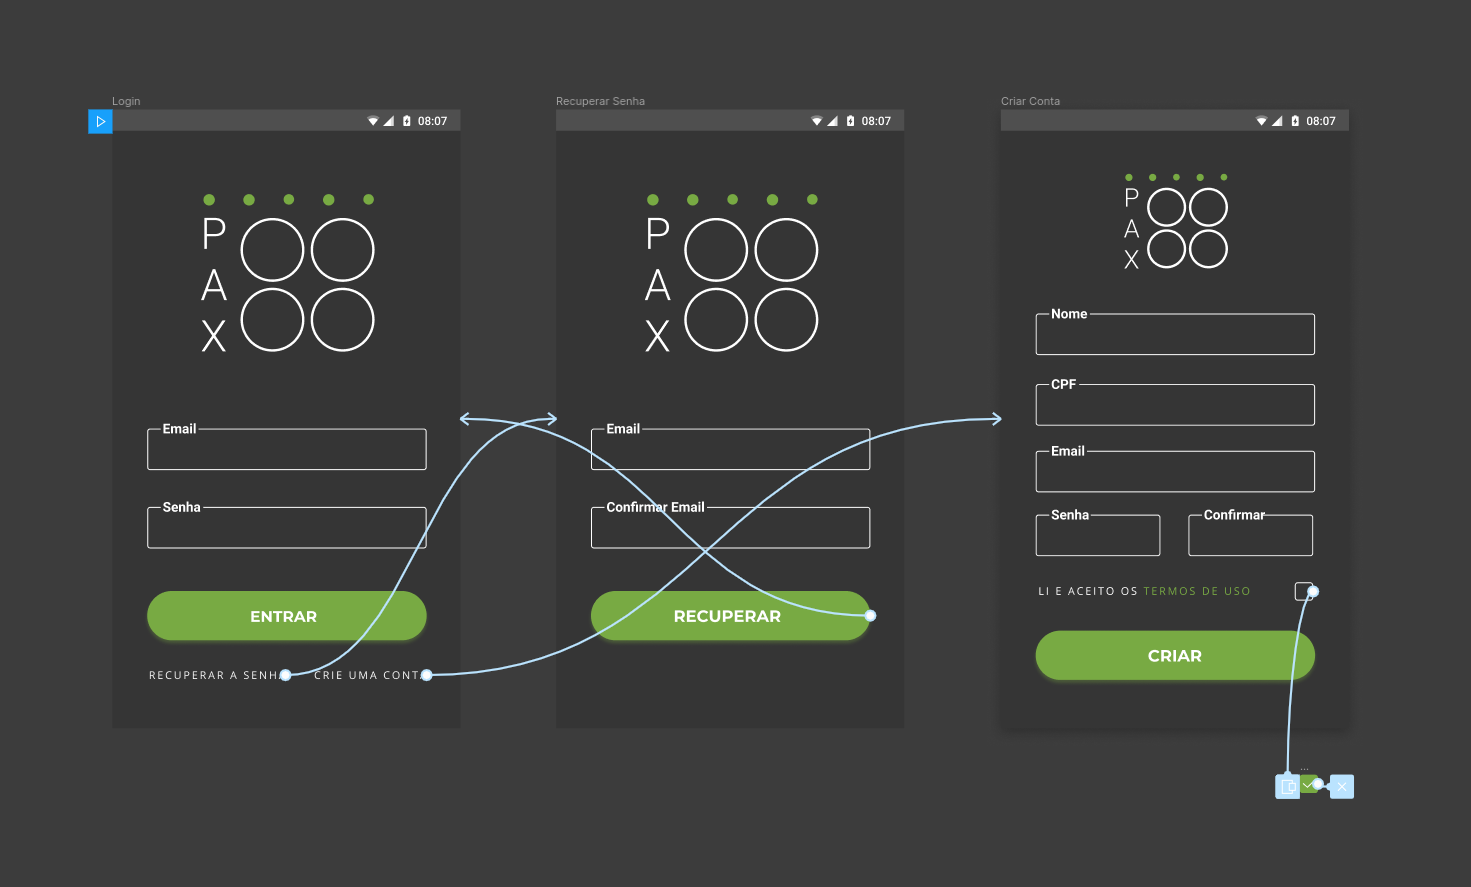
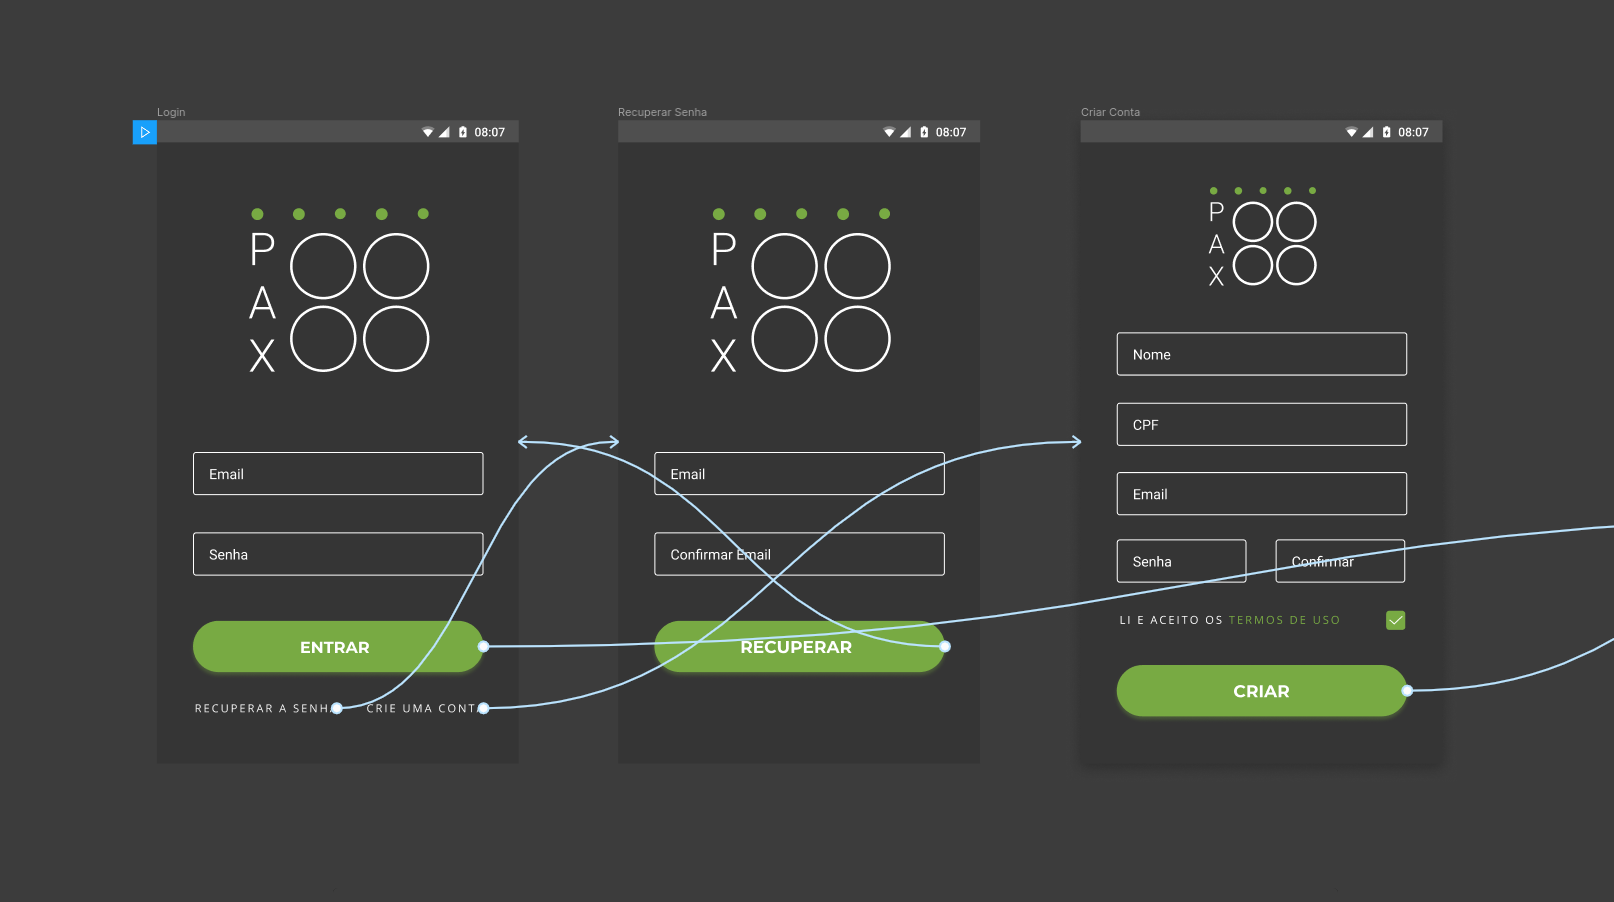
Update login flux due to new input and add flutter code to the main widgets

diff --git a/assets/css/overwrite-docsify-default/cover.css b/assets/css/overwrite-docsify-default/cover.css
@@ -29,3 +29,5 @@
   height: 16rem;
   margin-top: 4rem;
 }
+
+pre::after {display: none !important;}

diff --git a/docs/DS/dinamica-e-seminario-3/PrototipoAltaFidelidade.md b/docs/DS/dinamica-e-seminario-3/PrototipoAltaFidelidade.md
@@ -7,11 +7,35 @@ Um protótipo de alta fidelidade deve se aproximar ao máximo dos aspectos visua
 | Data            | Versão    |              Descrição            |    Autor(es) |
 | :--: | :----: | :-------: | :-------: |
 |   19/09/2019    |   0.0     |    Adição do documento inicial com a referência da introdução  |      Youssef Muhamad |
+|   20/09/2019    |   0.1     |    Adição do fluxo de login, cadastro e recuperação de senha  |      Youssef Muhamad |
 
-### Login
-![Login](../../../assets/prototipo-alto-nivel/login.png)
-### Login com Fluxo
-![Login](../../../assets/prototipo-alto-nivel/login-fluxo.png)
+### Login v1
+<img src="../../../assets/prototipo-alto-nivel/login.png">
+
+### Login com Fluxo v1
+<img src="../../../assets/prototipo-alto-nivel/login-fluxo.png">
+
+#### Código para o botão principal
+<!-- o JS é só pra deixar colorido -->
+```js 
+RaisedButton(
+  child: Text("Entrar"),
+  onPressed: () {},
+  shape: RoundedRectangleBorder(
+      borderRadius: new BorderRadius.circular(30.0),
+  ),
+)
+```
+
+#### Código para o input com borda
+```js
+TextField(
+  decoration: new InputDecoration(
+    labelText: 'Email',
+    border: const OutlineInputBorder(),
+  ),
+),
+```
 
 **Autor:** [Youssef Muhamad](https://github.com/youssef-md)
 
